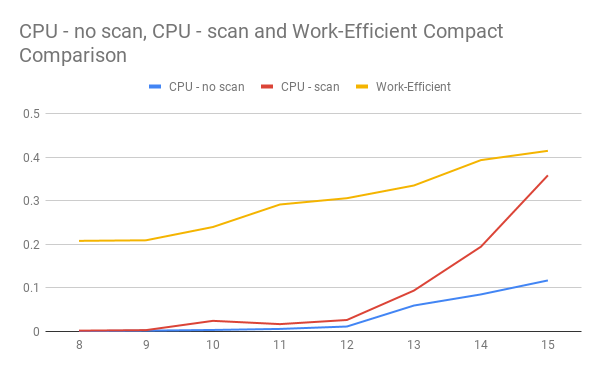
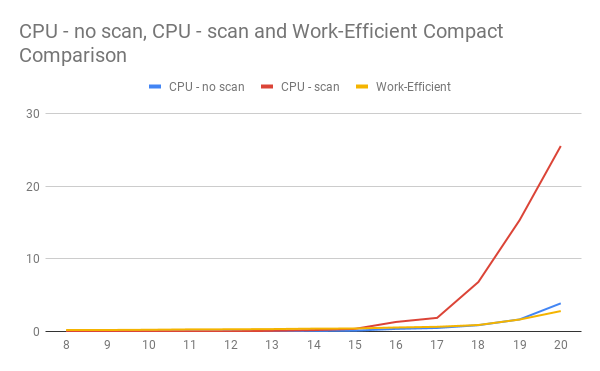
updated figures

diff --git a/src/main.cpp b/src/main.cpp
@@ -13,7 +13,7 @@
 #include <stream_compaction/thrust.h>
 #include "testing_helpers.hpp"
 
-const int SIZE = 1 << 12; // feel free to change the size of array
+const int SIZE = 1 << 19; // feel free to change the size of array
 const int NPOT = SIZE - 3; // Non-Power-Of-Two
 int *a = new int[SIZE];
 int *b = new int[SIZE];

diff --git a/src/testing_helpers.hpp b/src/testing_helpers.hpp
@@ -50,8 +50,7 @@ void onesArray(int n, int *a) {
 }
 
 void genArray(int n, int *a, int maxval) {
-    //srand(time(nullptr));
-	srand(124);
+    srand(time(nullptr));
 
     for (int i = 0; i < n; i++) {
         a[i] = rand() % maxval;
